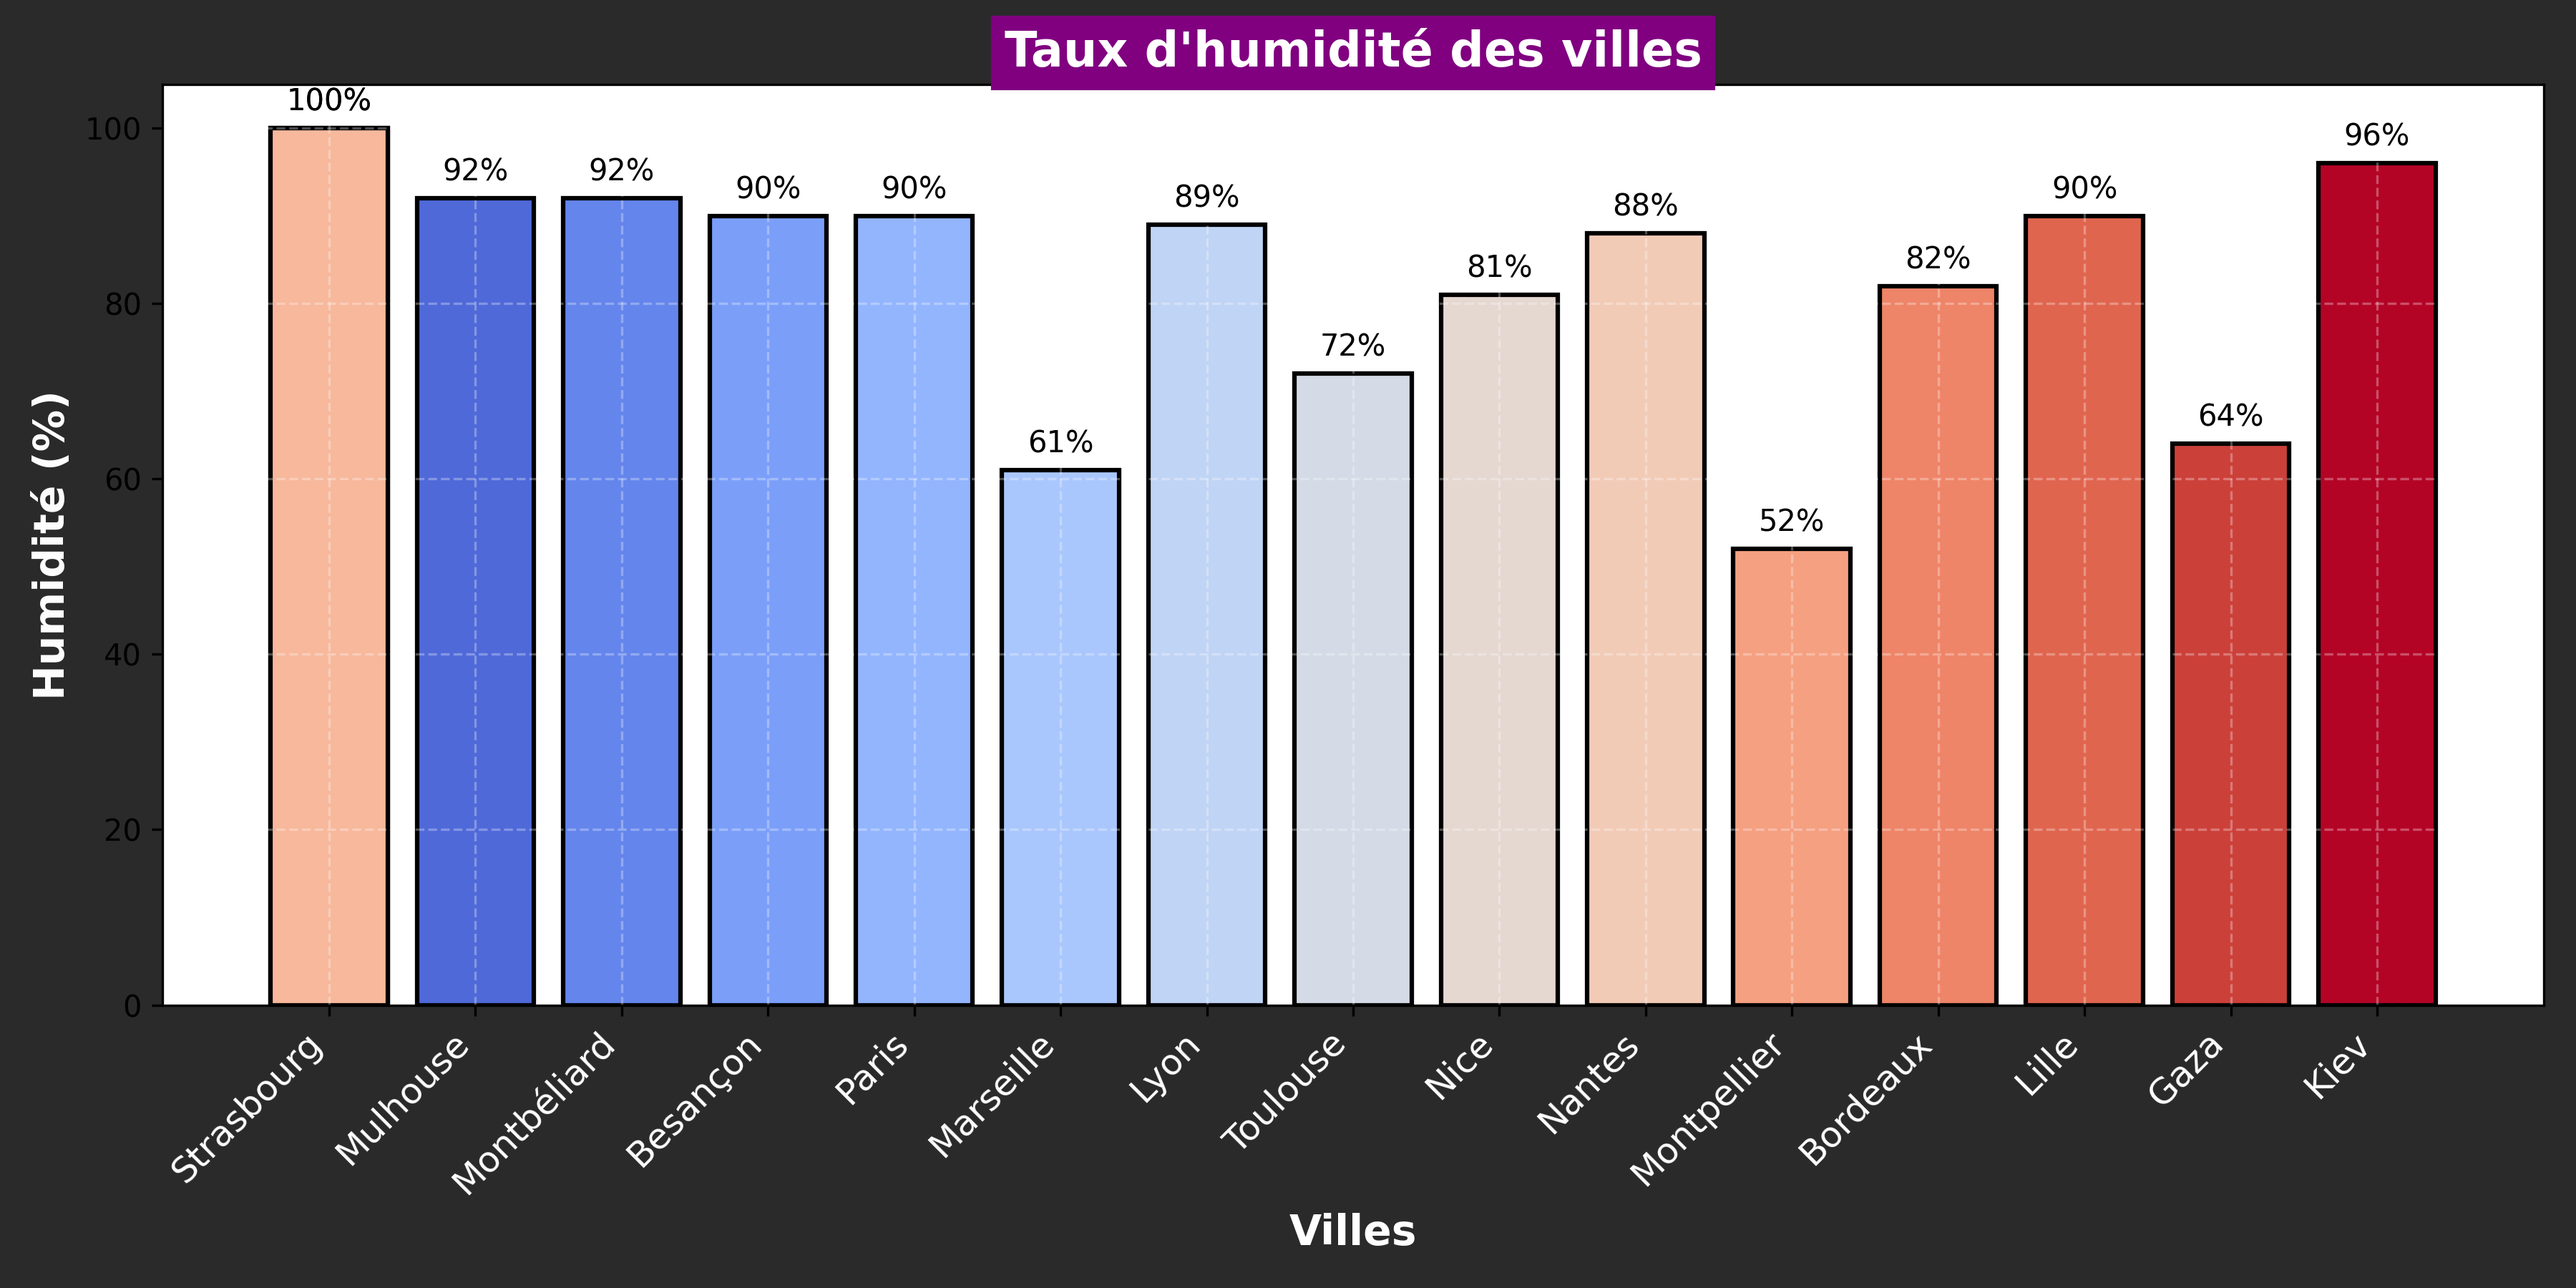
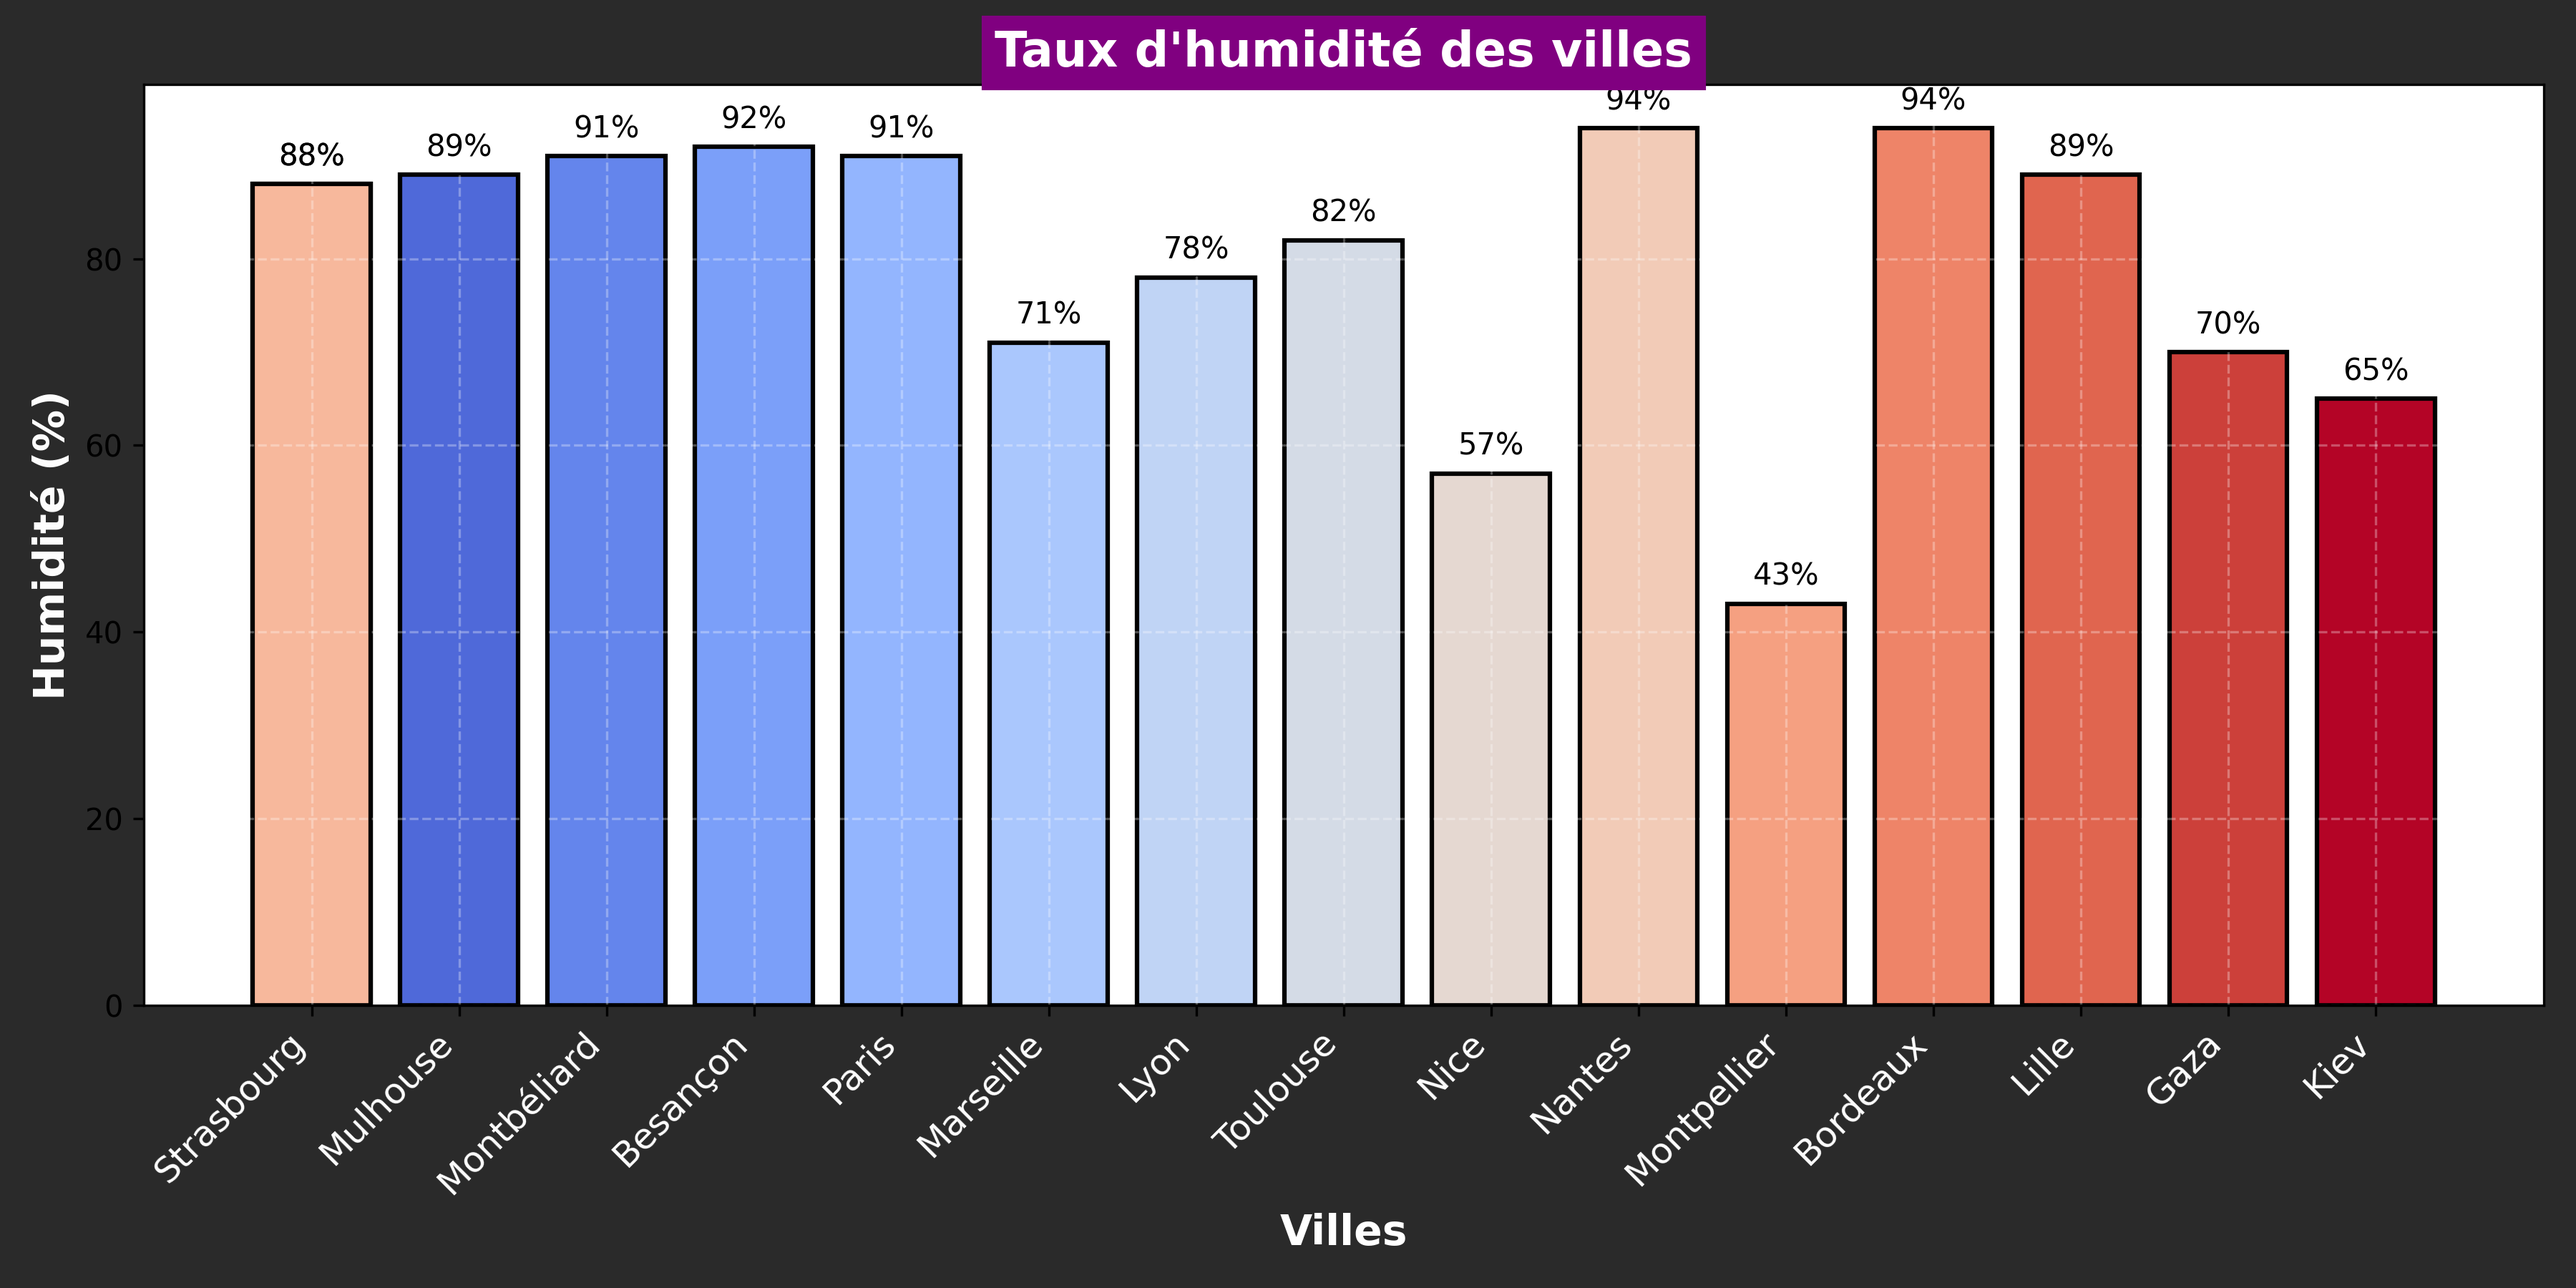
Mise à jour de la météo et ajout du graphique d'humidité

diff --git a/README.md b/README.md
@@ -24,103 +24,103 @@ Ce repo contient plusieurs workflows GitHub Actions :
 ## Météo actuelle :
 ## Météo des grandes villes + Gaza et Kiev 🌍
 
-🕒 Mise à jour : 28/07/2025 08:22:03
+🕒 Mise à jour : 29/07/2025 08:20:47
 
-### 🌍 Strasbourg 🌧
-**Conditions :** pluie modérée
-**Température :** 15.01°C
-**Humidité :** 100%
-**Vent :** 4.12 m/s
+### 🌍 Strasbourg 🌥
+**Conditions :** couvert
+**Température :** 15.96°C
+**Humidité :** 88%
+**Vent :** 1.03 m/s
 
-### 🌍 Mulhouse 🌧
-**Conditions :** légère pluie
-**Température :** 14.82°C
-**Humidité :** 92%
-**Vent :** 4.63 m/s
+### 🌍 Mulhouse ☀
+**Conditions :** ciel dégagé
+**Température :** 14.31°C
+**Humidité :** 89%
+**Vent :** 1.03 m/s
 
 ### 🌍 Montbéliard 🌥
-**Conditions :** couvert
-**Température :** 14.99°C
-**Humidité :** 92%
-**Vent :** 3.38 m/s
+**Conditions :** nuageux
+**Température :** 13.88°C
+**Humidité :** 91%
+**Vent :** 1.17 m/s
 
 ### 🌍 Besançon 🌥
 **Conditions :** couvert
-**Température :** 13.51°C
-**Humidité :** 90%
-**Vent :** 2.14 m/s
+**Température :** 11.33°C
+**Humidité :** 92%
+**Vent :** 0.53 m/s
 
 ### 🌍 Paris ☀
 **Conditions :** ciel dégagé
-**Température :** 16.13°C
-**Humidité :** 90%
-**Vent :** 3.6 m/s
+**Température :** 14.32°C
+**Humidité :** 91%
+**Vent :** 2.06 m/s
 
 ### 🌍 Marseille ☀
 **Conditions :** ciel dégagé
-**Température :** 17.88°C
-**Humidité :** 61%
-**Vent :** 3.58 m/s
+**Température :** 14.52°C
+**Humidité :** 71%
+**Vent :** 3.52 m/s
 
 ### 🌍 Lyon 🌥
 **Conditions :** couvert
-**Température :** 13.12°C
-**Humidité :** 89%
-**Vent :** 1.71 m/s
+**Température :** 15.38°C
+**Humidité :** 78%
+**Vent :** 0.96 m/s
 
-### 🌍 Toulouse ☀
-**Conditions :** ciel dégagé
-**Température :** 17.99°C
-**Humidité :** 72%
-**Vent :** 4.63 m/s
-
-### 🌍 Nice 🌥
-**Conditions :** partiellement nuageux
-**Température :** 16.39°C
-**Humidité :** 81%
-**Vent :** 3.52 m/s
-
-### 🌍 Nantes ☀
-**Conditions :** ciel dégagé
-**Température :** 15.96°C
-**Humidité :** 88%
-**Vent :** 2.57 m/s
-
-### 🌍 Strasbourg 🌧
-**Conditions :** pluie modérée
-**Température :** 15.01°C
-**Humidité :** 100%
-**Vent :** 4.12 m/s
-
-### 🌍 Montpellier ☀
-**Conditions :** ciel dégagé
-**Température :** 20.71°C
-**Humidité :** 52%
-**Vent :** 4.63 m/s
-
-### 🌍 Bordeaux ☀
-**Conditions :** ciel dégagé
-**Température :** 18.15°C
+### 🌍 Toulouse 🌥
+**Conditions :** nuageux
+**Température :** 15.99°C
 **Humidité :** 82%
 **Vent :** 3.6 m/s
 
-### 🌍 Lille ☀
+### 🌍 Nice 🌥
+**Conditions :** peu nuageux
+**Température :** 15.83°C
+**Humidité :** 57%
+**Vent :** 0.42 m/s
+
+### 🌍 Nantes ☀
 **Conditions :** ciel dégagé
-**Température :** 15.37°C
-**Humidité :** 90%
+**Température :** 14.96°C
+**Humidité :** 94%
+**Vent :** 1.03 m/s
+
+### 🌍 Strasbourg 🌥
+**Conditions :** couvert
+**Température :** 15.96°C
+**Humidité :** 88%
+**Vent :** 1.03 m/s
+
+### 🌍 Montpellier ☀
+**Conditions :** ciel dégagé
+**Température :** 21.71°C
+**Humidité :** 43%
 **Vent :** 3.09 m/s
 
-### 🌍 Gaza ☀
+### 🌍 Bordeaux ☀
 **Conditions :** ciel dégagé
-**Température :** 30.69°C
-**Humidité :** 64%
-**Vent :** 3.72 m/s
+**Température :** 16.15°C
+**Humidité :** 94%
+**Vent :** 1.54 m/s
+
+### 🌍 Lille 🌥
+**Conditions :** peu nuageux
+**Température :** 17.14°C
+**Humidité :** 89%
+**Vent :** 2.57 m/s
+
+### 🌍 Gaza 🌥
+**Conditions :** partiellement nuageux
+**Température :** 28.91°C
+**Humidité :** 70%
+**Vent :** 3.76 m/s
 
 ### 🌍 Kiev 🌥
-**Conditions :** nuageux
-**Température :** 20.96°C
-**Humidité :** 96%
-**Vent :** 0.89 m/s
+**Conditions :** partiellement nuageux
+**Température :** 25.4°C
+**Humidité :** 65%
+**Vent :** 0.45 m/s
 
 <p align='center'><img src='https://raw.githubusercontent.com/khoa083/khoa/main/Khoa_ne/img/Rainbow.gif' width='100%' style='border-radius: 5px; border: 3px solid #39FF14; box-shadow: 0 0 10px #39FF14, 0 0 20px #39FF14;' /></p>
 
